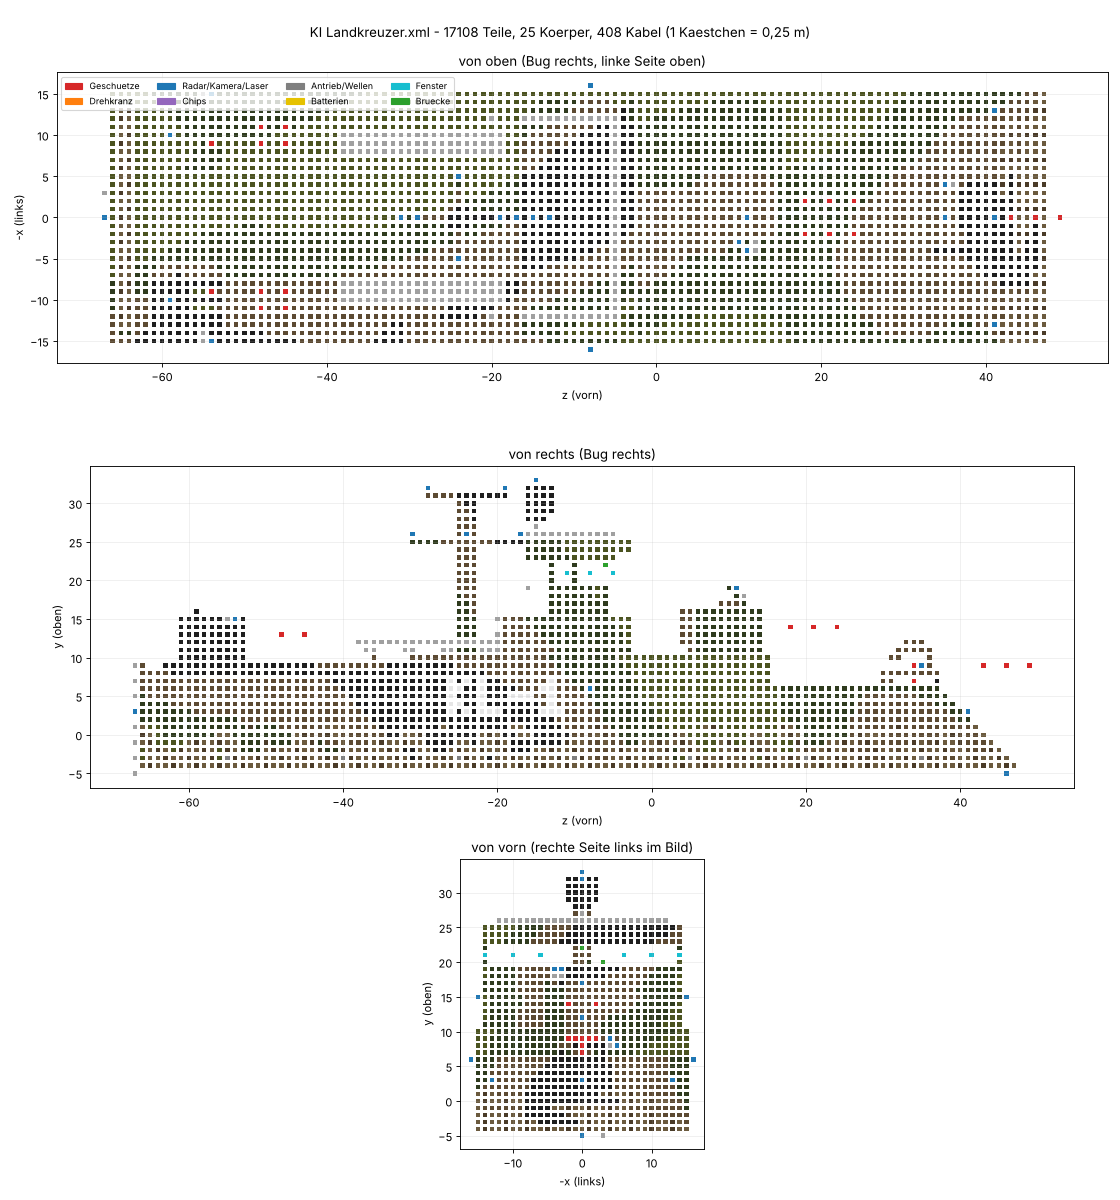
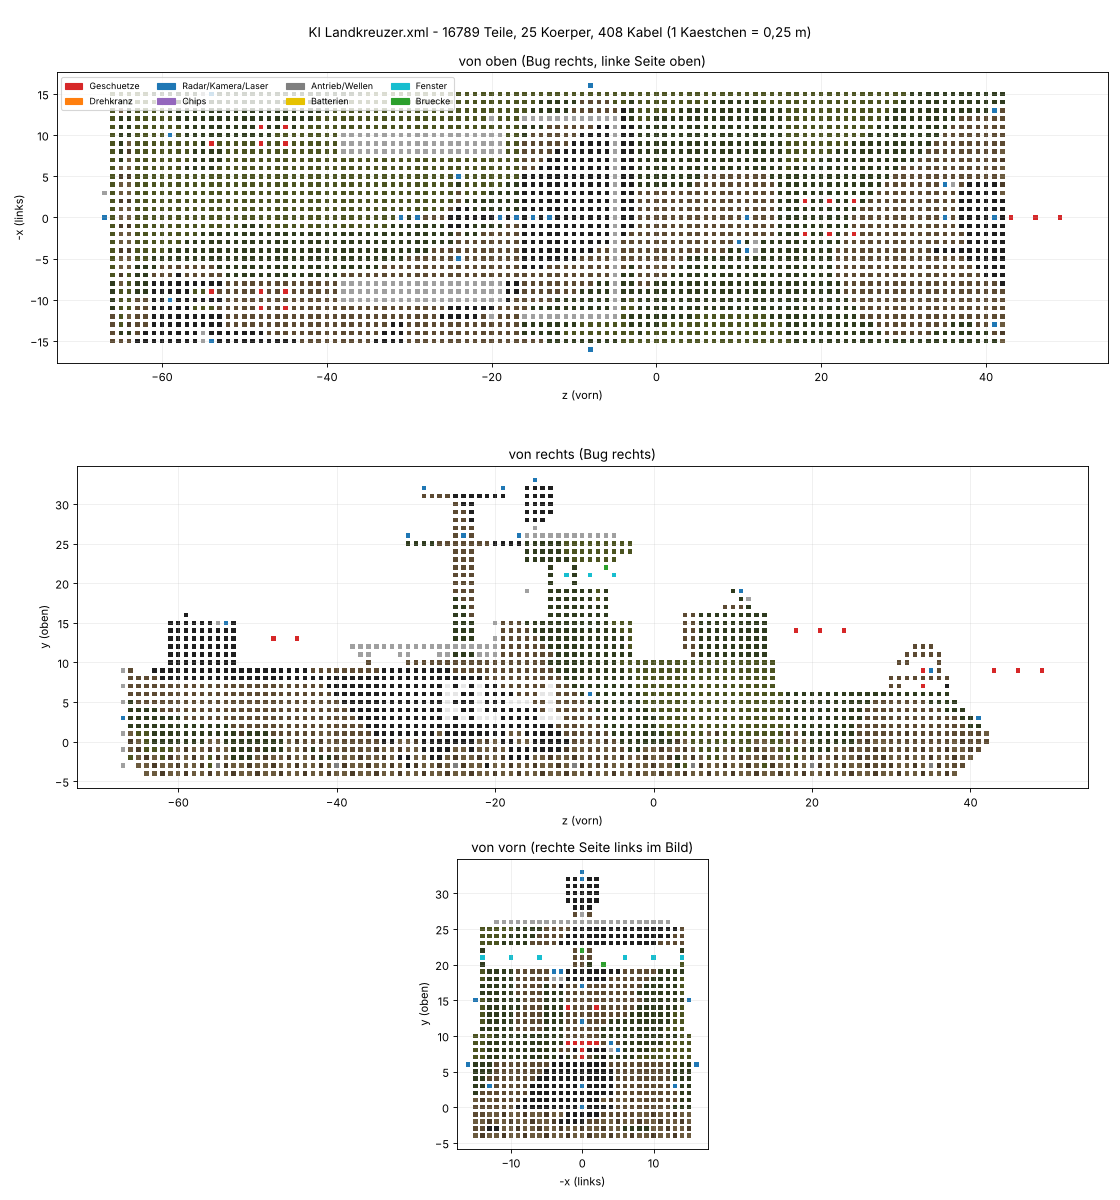
Landkreuzer: Bug als Keil, Heck unten abgeschraegt (Boeschungswinkel)
Die Bugspitze lag unten am Boden 3 m vor den Vorderraedern: an Haengen ab ~10 Grad
haette er aufgesetzt. Jetzt oben und unten 45 Grad, Spitze 1,25 m hoch; der untere
Laser sitzt in der Spitze. Heck: letzte 3 Reihen unten 45 Grad hochgezogen.

Claude-Session: https://claude.ai/code/session_0152gkBg9gGuHk7BmVYYkeuS

diff --git a/landkreuzer/tools/bau_landkreuzer.py b/landkreuzer/tools/bau_landkreuzer.py
@@ -54,8 +54,15 @@ HINTEN, VORN = -66, 37
 BODEN, HAUPTBODEN = -4, 1
 ABSCHNITTE = [(16, 36, 6), (0, 15, 10), (-30, -1, 10), (-65, -31, 9)]
 SOCKEL = ((-14, 11, -16), (14, 14, -3))
-# Bug-Schraege (45 Grad) vom vorderen Deck (y 6) bis zum Boden: z VORN .. VORN + 10; Schraege nach oben-vorn
-R_SCHRAEGE = (-1, 0, 0, 0, 1, 0, 0, 0, -1)       # 02_wedge so gedreht: offene Seiten +y und +z (aus dem Schiff gelesen)        # unter der Bruecke (Bruecken-Boden y 15 wie im Schiff)
+# Bug als Keil (wie die obere und untere Front-Platte eines Panzers): oben 45 Grad vom vorderen Deck (y 6) herab, unten
+# 45 Grad vom Boden herauf; die Spitze liegt bei z VORN + 5, y 0,5 (1,25 m ueber der Rumpf-Unterkante). Eine Spitze
+# unten am Boden 3 m vor den Vorderraedern wuerde schon an maessigen Haengen aufsetzen.
+BUG_SCHRITTE = 6
+R_SCHRAEGE = (-1, 0, 0, 0, 1, 0, 0, 0, -1)       # 02_wedge so gedreht: offene Seiten +y und +z (aus dem Schiff gelesen)
+R_SCHRAEGE_UNTEN = (1, 0, 0, 0, -1, 0, 0, 0, -1)  # ... um x gedreht: offene Seiten -y und +z (untere Bug-Schraege)
+# Heck: die letzten 3 Reihen unten 45 Grad hochgezogen (mehr Boden-Abstand beim Herunterfahren von Haengen)
+HECK_SCHRITTE = 3
+R_SCHRAEGE_HECK = (-1, 0, 0, 0, -1, 0, 0, 0, 1)   # offene Seiten -y und -z
 
 # Fahrwerk: Rad-Achsen je Seite (z), Achs-Hoehe y, Motor-Spalte x
 RAD_Z = [35, 20, 5, -10, -25, -40, -55]          # Mitte -10 = Schwerpunkt (grob geschaetzt)
@@ -106,7 +113,7 @@ LASER = [
     ("Laser vorn rechts", (13, 3, VORN + 4), R_VORN),
     ("Laser links", (X0 - 1, 6, -8), R_LINKS),          # ueber den Raedern (Rad-Radius bis 6 Bloecke frei)
     ("Laser rechts", (X1 + 1, 6, -8), R_RECHTS),
-    ("Laser unten", (0, BODEN - 1, VORN + 9), R_UNTEN),        # unter der Bugspitze
+    ("Laser unten", (0, BODEN + BUG_SCHRITTE - 2, VORN + BUG_SCHRITTE - 1), R_UNTEN),  # in der Bugspitze, nach unten
     ("Laser hinten", (0, 3, HINTEN - 1), R_HINTEN),
 ]
 # Batterien (Battery Large, Anschluss oben +2): im Fahrwerksraum
@@ -377,24 +384,32 @@ class Bau:
             self.teil_voxel.add(p)
             neu.append(block(p, farbe))
 
-        # Bug-Schraege: je Schritt eine Schraege oben, darunter Bloecke bis zum Boden
-        for k in range(0, 11):
+        def schraege(p, r):
+            if p not in self.teil_voxel:
+                self.teil_voxel.add(p)
+                neu.append(fz.Teil('<c d="02_wedge"><o r="%s" bc="%s" ac="%s" sc="5">%s</o></c>'
+                                   % (rstr(r), FARBE_RUMPF, FARBE_RUMPF, fz.vox("vp", p))))
+
+        # Bug-Keil: je Reihe oben eine Schraege (y top), unten eine (y lo - 1, ab der 2. Reihe), dazwischen hohl
+        # (unterste und oberste Lage, Seitenwaende)
+        for k in range(BUG_SCHRITTE):
             z = VORN + k
-            top = 6 - k
+            top, lo = 6 - k, BODEN + k
             for x in range(X0, X1 + 1):
-                for y in range(BODEN, top):
-                    # hohl: Boden, eine Lage unter der Schraege, Seitenwaende
-                    if y in (BODEN, top - 1) or x in (X0, X1):
-                        setze((x, y, z), FARBE_BODEN if y == BODEN else FARBE_RUMPF, True)
-                p = (x, top, z)
-                if p not in self.teil_voxel:
-                    self.teil_voxel.add(p)
-                    neu.append(fz.Teil('<c d="02_wedge"><o r="%s" bc="%s" ac="%s" sc="5">%s</o></c>'
-                                       % (rstr(R_SCHRAEGE), FARBE_RUMPF, FARBE_RUMPF, fz.vox("vp", p))))
+                for y in range(lo, top):
+                    if y in (lo, top - 1) or x in (X0, X1):
+                        setze((x, y, z), FARBE_BODEN if y == lo else FARBE_RUMPF, True)
+                schraege((x, top, z), R_SCHRAEGE)
+                if k:
+                    schraege((x, lo - 1, z), R_SCHRAEGE_UNTEN)
         for z in range(HINTEN, VORN):
+            # Unterkante: am Heck in HECK_SCHRITTE Reihen 45 Grad hochgezogen
+            unten = BODEN + max(0, HINTEN + HECK_SCHRITTE - z)
             for x in range(X0, X1 + 1):
-                setze((x, BODEN, z), FARBE_BODEN, True)
-            for y in range(BODEN + 1, HAUPTBODEN):
+                setze((x, unten, z), FARBE_BODEN, True)
+                if unten > BODEN:
+                    schraege((x, unten - 1, z), R_SCHRAEGE_HECK)
+            for y in range(unten + 1, HAUPTBODEN):
                 setze((X0, y, z), aussen=True)
                 setze((X1, y, z), aussen=True)
             h = self.deck(z)
@@ -402,7 +417,7 @@ class Bau:
                 # Bug- und Heckplatte bis zur Deckhoehe dahinter/davor
                 top = self.deck(z - 1) if z > 0 else self.deck(z + 1)
                 for x in range(X0, X1 + 1):
-                    for y in range(BODEN + 1, top + 1):
+                    for y in range(unten + 1, top + 1):
                         setze((x, y, z), aussen=True)
                 continue
             for x in range(X0, X1 + 1):
@@ -467,7 +482,8 @@ class Bau:
         """Leitern (wie im Schiff, 2 Bloecke hoch): hinten vom Boden aufs Deck, hinter der Bruecke auf die Plattform."""
         lt = vorlage(self.F, "ladder_small", (14, 3, -20))
         r = (1, 0, 0, 0, 0, -1, 0, 1, 0)          # Leiter an einer Wand, die nach -z (hinten) schaut
-        orte = [(-3, y, HINTEN - 1) for y in range(-5, 10, 2)] + [(sx * 12, y, -20) for sx in (-1, 1) for y in (11, 13, 15)]
+        # hinten: unterstes Stueck haengt vor der Heck-Schraege (Boden-Abstand), die anderen an der Heckplatte
+        orte = [(-3, y, HINTEN - 1) for y in range(BODEN + 1, 10, 2)] + [(sx * 12, y, -20) for sx in (-1, 1) for y in (11, 13, 15)]
         for p in orte:
             xml = lt.xml.replace('r="0,0,1,1,0,0,0,1,0"', 'r="%s"' % rstr(r))
             self.plus(fz.Teil(xml).verschoben(fz.sub(p, lt.vp)))

diff --git a/landkreuzer/LANDKREUZER.md b/landkreuzer/LANDKREUZER.md
@@ -16,7 +16,7 @@ fahren – quasi ein KI-Panzer“.
 
 | | |
 |---|---|
-| Größe | Rumpf 28 m lang (mit Bug-Schräge), mit AC-Rohr 29 m; 7,75 m breit + Räder ≈ 9–10 m; Mast ≈ 9 m über dem Boden des Rumpfs |
+| Größe | Rumpf 27 m lang, mit AC-Rohr 29 m; 7,75 m breit + Räder ≈ 9–10 m; Mast ≈ 9 m über dem Boden des Rumpfs |
 | Teile | ca. 17 000 (ein Drittel der Figet Marena mit ≈ 56 000), 25 Körper, ca. 410 Kabel, 9 Chips |
 | Waffen | vorn **Heavy-Autocannon-Turm** (AP), dahinter erhöht **Battle-Cannon-Turm mit 2 Rohren** (HE), hinten **2 Flak-Türme** mit je 2 Heavy Autocannons (Splitter, Zeitzünder) |
 | Schutz | **Auto-Chaff**: 8 Werfer-Ketten mit je 15 Werfern (wie auf dem Schiff), Radarwarner auf dem Brückendach |
@@ -24,7 +24,7 @@ fahren – quasi ein KI-Panzer“.
 | Brücke | die Brücke der Figet Marena: Steuersitz, Hauptmonitor 9×5 (Radar, Kamera, Zielliste), Monitor 3×3 = **Karte der KI**, Monitor 2×3 = **KI-Status**, Instrumentenblock; Aufstieg über Leitern hinten und hinter der Brücke |
 | Antrieb | 14 Elektromotoren (Medium), je einer pro Rad, 24 große Batterien im Fahrwerksraum; gelenkt wird wie bei einem Kettenfahrzeug (links und rechts verschieden schnell) |
 | KI | fährt Wegpunkte ab oder patrouilliert im Revier, weicht Hindernissen aus (7 Laser), meidet Wasser und Abhänge, befreit sich, wenn sie feststeckt, bleibt im Gefecht stehen, fährt auf Wunsch nach Hause |
-| Aussehen | Tarnanstrich (Wald: Oliv, Dunkelgrün, Braun, Schwarz) auf allen Blöcken, unten Schlamm-Spritzer, 45°-Bug-Schräge, Kennung „KL-1“ weiß an beiden Seiten |
+| Aussehen | Tarnanstrich (Wald: Oliv, Dunkelgrün, Braun, Schwarz) auf allen Blöcken, unten Schlamm-Spritzer, Bug als Keil (oben und unten 45°), Heck unten abgeschrägt, Kennung „KL-1“ weiß an beiden Seiten |
 
 ### Woher die Teile kommen
 Alles, was im Schiff schon funktioniert, ist **genau kopiert**: gleiche Teile, gleiche Abstände, gleiche Kabel,
@@ -95,7 +95,8 @@ haben denselben KI-Chip; die Lenk-Ausgänge sind in der einfachen Variante nur n
    - Im Spiel das Fahrzeug **neu laden, ohne vorher zu speichern**.
    - Wenn du rechts ein anderes Rad willst: auch rechts vorn eines setzen, dann nimmt das Programm dieses für rechts.
 4. Spawnen. Er ist groß und braucht eine große Werkbank bzw. einen großen Platz.
-5. **Einsteigen:** Leiter hinten (links der Mitte) aufs Deck. Nach vorn zur Plattform hinter der Brücke, dort die
+5. **Einsteigen:** Leiter hinten (links der Mitte) aufs Deck. Die unterste Sprosse hängt je nach Rad etwa
+   1 m über dem Boden (das Heck ist unten abgeschrägt): hinlaufen und hochspringen. Nach vorn zur Plattform hinter der Brücke, dort die
    Leiter hoch, dann durch die Tür in der Rückwand der Brücke.
 
 ---
@@ -206,7 +207,14 @@ In dieser Reihenfolge. Anfangen jeweils mit **KI Pause an** und **Waffen sperren
 
 **Koordinaten** (Blöcke à 0,25 m): x rechts, y oben, z vorn.
 - Höhen: Boden des Fahrwerksraums y −4, Hauptboden y 1, Deck vorn y 6, Mitte y 10, hinten y 9.
-- Bug-Schräge z 37 … 47. Brücken-Boden y 15.
+- Bug-Keil z 37 … 42: oben 45° vom Deck (y 6) herab, unten 45° vom Boden herauf, Spitze bei y 0,5 (1,25 m über der
+  Rumpf-Unterkante). Vorher lag die Spitze unten am Boden, 3 m vor den Vorderrädern; mit kleinen Rädern hätte er
+  schon an Hängen ab etwa 10° aufgesetzt. Jetzt begrenzt die untere Schräge (45°).
+- Heck: die letzten 3 Reihen (z −64 … −66) unten 45° hochgezogen. Mit großen Rädern (12 Blöcke) setzt das Heck erst
+  an Hängen über etwa 34° auf (vorher 24°).
+- Bodenfreiheit = Rad-Radius − 1,5 Blöcke (Achse bei y −3, Unterkante y −4,5). Bei 7er-Rädern nur 0,5 m, darum
+  lieber große Räder.
+- Brücken-Boden y 15.
 - Wellen-Stummel bei x ±15, y −3, z 35 / 20 / 5 / −10 / −25 / −40 / −55 (Mitte = geschätzter Schwerpunkt).
 - **Schwerpunkt** (geschätzt, jedes Teil gleich schwer): y ≈ 5, also gut 2,5 m über dem Boden bei ≈ 8,5 m Spur.
   Er kippt erst bei sehr steilen Seitenhängen (über 45°); Ballast ist nicht nötig. Die KI meidet steile Hänge ohnehin.
